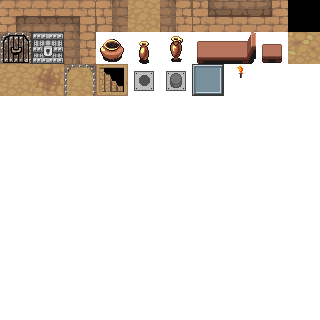
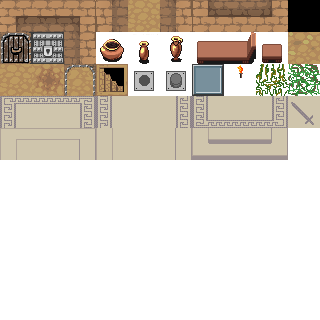
ll

Changed region(s): [[0.0, 0.1875, 1.0, 0.5]]

diff --git a/src/generation/map_tiling.ts b/src/generation/map_tiling.ts
@@ -4,6 +4,9 @@ import { MapParamCreation } from "../map/map-generator";
 import {Terrain} from '../map/terrain';
 import { randomIn } from "../game/utils/rectangle";
 import { generateOlMap } from "./map_generation_ol";
+import { torchPainter } from "./painters/torch-painter";
+import { decoPainter } from "./painters/decoration-painter";
+import { greeceDeco } from "./painters/greece-deco-painter";
 
 export function createTileMap(params: MapParamCreation) {
     const MapTerrain: Terrain = params.Terrain;
@@ -59,23 +62,7 @@ export function createTileMap(params: MapParamCreation) {
         tilemap[points.C.y][points.C.x] = MapTerrain.CornerSE;
         tilemap[points.D.y][points.D.x] = MapTerrain.CornerSW;
     }
-    
-    function lineTile(A, B, tilemap, type) {
-        var x0 = A.x, y0 = A.y, x1 = B.x, y1 = B.y;
-        var dx = Math.abs(x1 - x0);
-        var dy = Math.abs(y1 - y0);
-        var sx = (x0 < x1) ? 1 : -1;
-        var sy = (y0 < y1) ? 1 : -1;
-        var err = dx - dy;
-     
-        while(true) {
-           tilemap[y0][x0] = type;
-           if (Math.abs(x0-x1) < 0.0001 && Math.abs(y0-y1) < 0.0001 ) break;
-           var e2 = 2*err;
-           if (e2 > -dy) { err -= dy; x0  += sx; }
-           if (e2 < dx) { err += dx; y0  += sy; }
-        }
-     }
+
      function makeExit(rooms, tilemap) {
         for (let room of rooms) {
             if (room.isExit) {
@@ -84,4 +71,54 @@ export function createTileMap(params: MapParamCreation) {
             }
         }
     }
+
+    function tileLayers(rooms, terrain: Terrain) {
+        const tilemap2 = Array(params.canvasHeight).fill(MapTerrain.Void).map(()=>Array(params.canvasWidth).fill(MapTerrain.Void));
+        const tilemap3 = Array(params.canvasHeight).fill(MapTerrain.Void).map(()=>Array(params.canvasWidth).fill(MapTerrain.Void));
+        for (const r of rooms) {
+            const rand = Math.random();
+            if (rand >= 0.90) {
+                paintStandard(r, tilemap2, tilemap3, terrain);
+            } else if (rand >= 0.80) {
+                paintWater(r, tilemap2, tilemap3, terrain);
+            } else {
+                paintFloral(r, tilemap2, tilemap3, terrain);
+            }
+        }
+    }
+
+    function paintStandard(room, tilemap2, tilemap3, terrain) {
+        torchPainter(room, tilemap2, terrain);
+        decoPainter(room, tilemap3, terrain);
+        greeceDeco(room, tilemap2, terrain);
+    }
+    function paintWater(room, tilemap2, tilemap3, terrain) {
+
+    }
+    function paintFloral(room, tilemap2, tilemap3, terrain) {
+
+    }
 }
+
+export function lineTile(A, B, tilemap, type, atRate?: number) { // 0-1
+    var x0 = A.x, y0 = A.y, x1 = B.x, y1 = B.y;
+    var dx = Math.abs(x1 - x0);
+    var dy = Math.abs(y1 - y0);
+    var sx = (x0 < x1) ? 1 : -1;
+    var sy = (y0 < y1) ? 1 : -1;
+    var err = dx - dy;
+ 
+    while(true) {
+        if (atRate && Math.random() <= atRate ) {
+            tilemap[y0][x0] = type;
+        }
+        if (!atRate) {
+            tilemap[y0][x0] = type;
+        }
+       
+       if (Math.abs(x0-x1) < 0.0001 && Math.abs(y0-y1) < 0.0001 ) break;
+       var e2 = 2*err;
+       if (e2 > -dy) { err -= dy; x0  += sx; }
+       if (e2 < dx) { err += dx; y0  += sy; }
+    }
+ }

diff --git a/src/generation/painters/decoration-painter.ts b/src/generation/painters/decoration-painter.ts
@@ -1,0 +1,27 @@
+import { lineTile } from "../map_tiling";
+import { pointsOfRect } from "../map-geo";
+import { Terrain } from "../../map/terrain";
+import { randomIn } from "../../game/utils/rectangle";
+
+export function decoPainter(room, tilemap, terrain: Terrain) {
+    if (Math.random() > 0.7) {
+        const pos = randomIn(room.rect, 1);
+        tilemap[pos.y][pos.x] = terrain.Deco1
+    }
+    if (Math.random() > 0.7) {
+        const pos = randomIn(room.rect, 1);
+        tilemap[pos.y][pos.x] = terrain.Deco2
+    }
+    if (Math.random() > 0.7) {
+        const pos = randomIn(room.rect, 1);
+        tilemap[pos.y][pos.x] = terrain.Deco3
+    }
+    if (Math.random() > 0.7) {
+        const pos = randomIn(room.rect, 1);
+        tilemap[pos.y][pos.x] = terrain.Deco4
+    }
+    if (Math.random() > 0.7) {
+        const pos = randomIn(room.rect, 1);
+        tilemap[pos.y][pos.x] = terrain.Deco5
+    }
+}

diff --git a/src/generation/painters/greece-deco-painter.ts b/src/generation/painters/greece-deco-painter.ts
@@ -1,0 +1,24 @@
+import { lineTile } from "../map_tiling";
+import { pointsOfRect } from "../map-geo";
+import { Terrain } from "../../map/terrain";
+import { randomIn } from "../../game/utils/rectangle";
+
+export function greeceDeco(room, tilemap, terrain: Terrain) {
+    let pos = randomIn(room.rect, 1);
+    tilemap[pos.y][pos.x] = terrain.FloorAlt1
+
+    pos = randomIn(room.rect, 1);
+    tilemap[pos.y][pos.x] = terrain.FloorAlt1
+
+    pos = randomIn(room.rect, 1);
+    tilemap[pos.y][pos.x] = terrain.FloorAlt2
+
+    pos = randomIn(room.rect, 1);
+    tilemap[pos.y][pos.x] = terrain.FloorAlt2
+
+    pos = randomIn(room.rect, 1);
+    tilemap[pos.y][pos.x] = terrain.FloorAlt3
+
+    pos = randomIn(room.rect, 1);
+    tilemap[pos.y][pos.x] = terrain.FloorAlt3
+}

diff --git a/src/generation/painters/torch-painter.ts b/src/generation/painters/torch-painter.ts
@@ -1,0 +1,8 @@
+import { lineTile } from "../map_tiling";
+import { pointsOfRect } from "../map-geo";
+import { Terrain } from "../../map/terrain";
+
+export function torchPainter(room, tilemap, terrain: Terrain) {
+    const points = pointsOfRect(room.rect);
+    lineTile(points.A, points.B, tilemap, terrain.Torch, 0.25);
+}

diff --git a/src/map/terrain.ts b/src/map/terrain.ts
@@ -15,5 +15,6 @@ export interface Terrain {
     Stair: number;
     Button: number;
     ButtonPushed: number;
+    Torch: number;
     [k: string]: any;
 }
